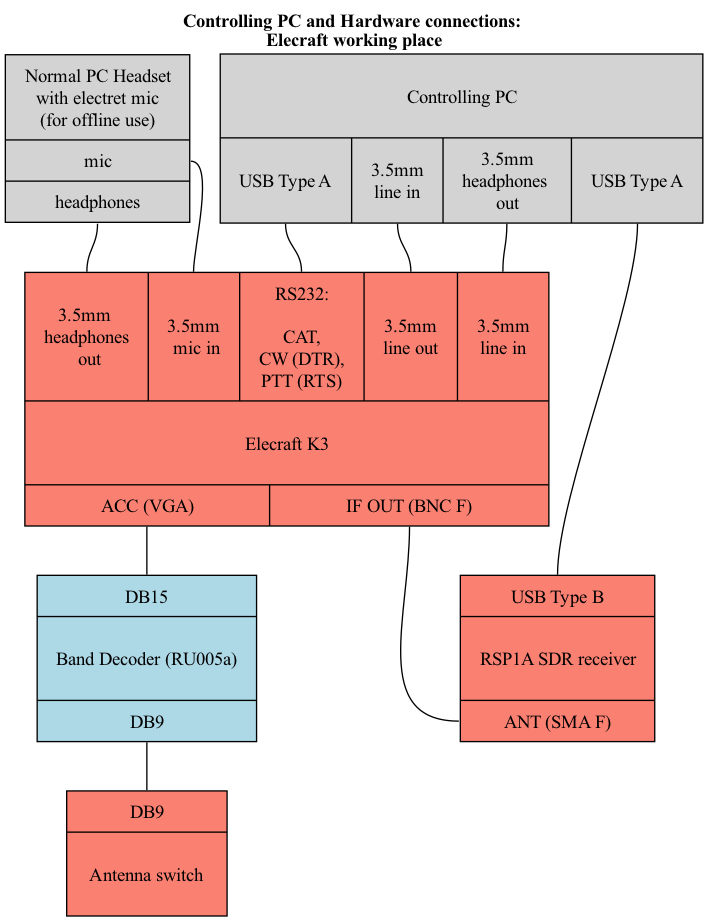
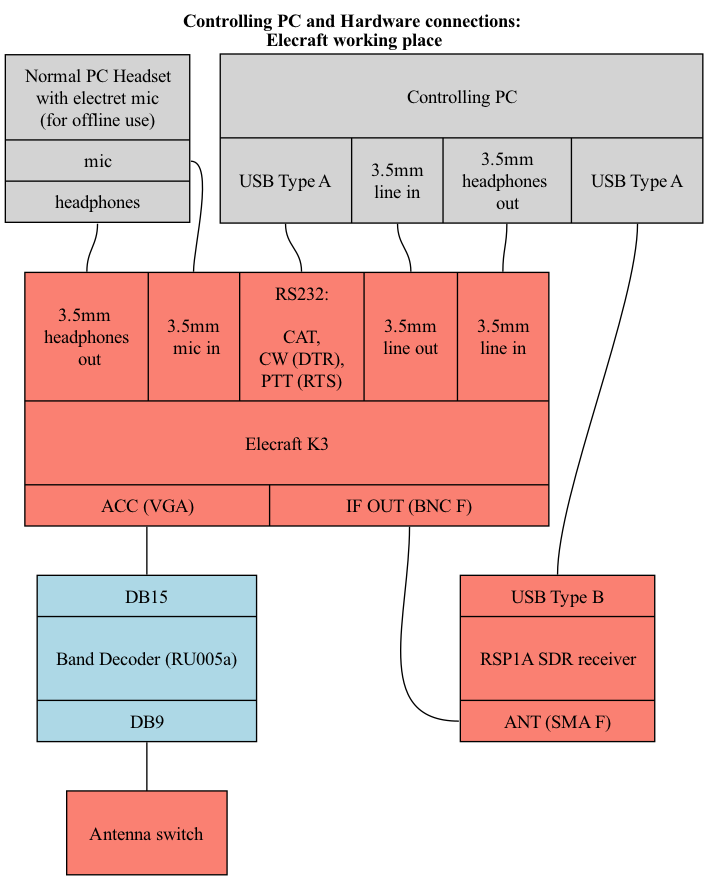
updated RK5D readme: minor fixes in antenna switch connections

diff --git a/rk5d-remote/kenwood-via-microham/SETUP.md b/rk5d-remote/kenwood-via-microham/SETUP.md
@@ -3,6 +3,8 @@
 ## Wiring diagram
 Some details are missing here.
 
+This place is going to be reconfigured for use with WARC bands only - hence external antenna switch will not be used. RU005 will also be removed from this working place.
+
 ![hardware](images/hw.png)
 
 ### PC and RU005a:
